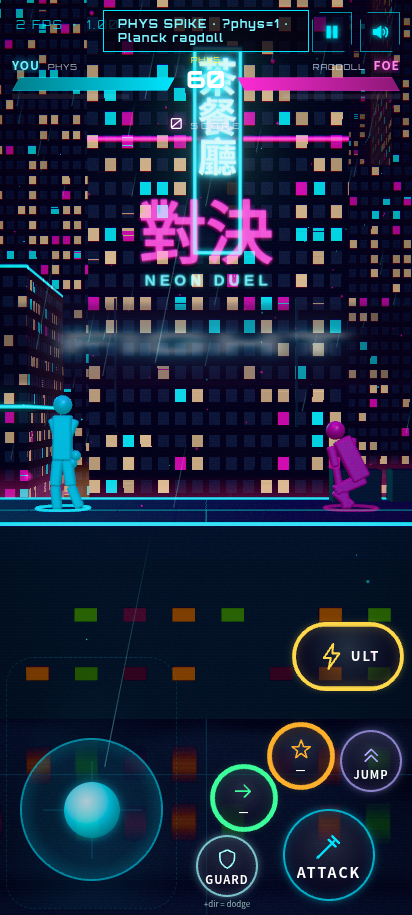
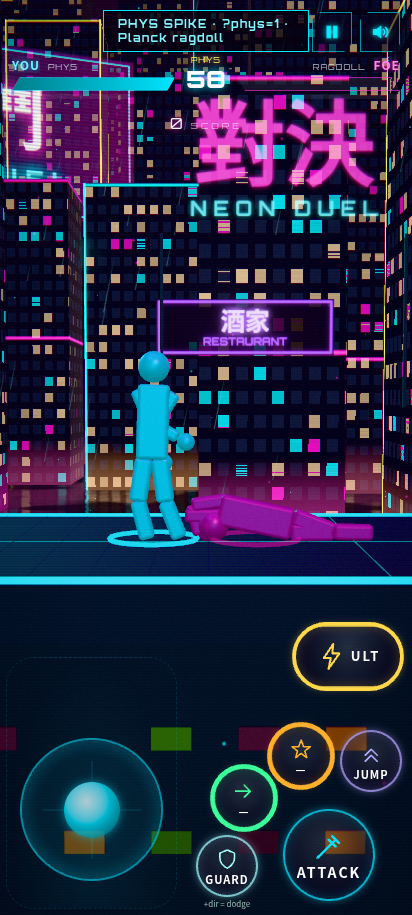
phys spike: softer wider joints for Stick Fight flail
Widen revolute limits, cut motor torque/gain and angular damping,
add hit-flinch limp window and KO angular flop. Limb mesh sizes
unchanged. Refresh punch/KO shots; document Pages ?phys=1 URL.

diff --git a/js/phys/ragdoll.js b/js/phys/ragdoll.js
@@ -1,10 +1,11 @@
 // P0 physics spike — Planck.js 2D neon ragdoll (side-view). Pure sim, no Three.js.
 // Units: metres, seconds. Ground at y = 0. Arena walls at ±ARENA.
+// Stick Fight–like rubbery joints: WIDE revolute limits + SOFT motors (limb silhouette / mesh sizes unchanged).
 import { World, Edge, Box, Circle, RevoluteJoint, Vec2 } from '../../vendor/planck/planck.mjs';
 
 export const ARENA = 7.5;
 export const DT = 1 / 60;
-export const GRAVITY = -22;
+export const GRAVITY = -20;
 
 const CAT = { GROUND: 0x0001, A: 0x0002, B: 0x0004, FIST_A: 0x0008, FIST_B: 0x0010 };
 const MASK = {
@@ -15,18 +16,48 @@ const MASK = {
   fistB: CAT.GROUND | CAT.A,
 };
 
+// Soft “alive” motor gains / torques (Stick Fight–rubbery). Guard multiplies these.
+const SOFT = {
+  gain: 4.5,          // was ~12–16 — low = laggy rubbery follow
+  hipT: 22, knT: 14,  // was 55–70 / 40–55
+  shT: 10, elT: 8,    // was 28–35
+  neckT: 5, wrT: 4,
+  upright: 14,        // torso stand torque (was 40)
+  uprightD: 2.5,      // angular damp on upright (was 6)
+  walkK: 12,
+  flinchT: 0.28,      // seconds motors go near-zero after a hit
+};
+
 function boxBody(world, x, y, hx, hy, dens, filter, opts = {}) {
-  const b = world.createBody({ type: 'dynamic', position: { x, y }, linearDamping: opts.ld ?? 0.4, angularDamping: opts.ad ?? 0.8, fixedRotation: !!opts.fixed });
-  b.createFixture({ shape: new Box(hx, hy), density: dens, friction: opts.fric ?? 0.55, restitution: opts.rest ?? 0.05, filterCategoryBits: filter.cat, filterMaskBits: filter.mask });
+  // Low angular damping → limbs keep swinging / flailing
+  const b = world.createBody({
+    type: 'dynamic', position: { x, y },
+    linearDamping: opts.ld ?? 0.25,
+    angularDamping: opts.ad ?? 0.22,
+    fixedRotation: !!opts.fixed,
+  });
+  b.createFixture({
+    shape: new Box(hx, hy), density: dens,
+    friction: opts.fric ?? 0.5, restitution: opts.rest ?? 0.12,
+    filterCategoryBits: filter.cat, filterMaskBits: filter.mask,
+  });
   return b;
 }
 function circleBody(world, x, y, r, dens, filter, opts = {}) {
-  const b = world.createBody({ type: 'dynamic', position: { x, y }, linearDamping: opts.ld ?? 0.35, angularDamping: opts.ad ?? 0.7 });
-  b.createFixture({ shape: new Circle(r), density: dens, friction: opts.fric ?? 0.4, restitution: opts.rest ?? 0.08, filterCategoryBits: filter.cat, filterMaskBits: filter.mask });
+  const b = world.createBody({
+    type: 'dynamic', position: { x, y },
+    linearDamping: opts.ld ?? 0.22,
+    angularDamping: opts.ad ?? 0.18,
+  });
+  b.createFixture({
+    shape: new Circle(r), density: dens,
+    friction: opts.fric ?? 0.4, restitution: opts.rest ?? 0.15,
+    filterCategoryBits: filter.cat, filterMaskBits: filter.mask,
+  });
   return b;
 }
 
-function joint(world, a, b, ax, ay, { lo, hi, motor = true, torque = 40, speed = 0 } = {}) {
+function joint(world, a, b, ax, ay, { lo, hi, motor = true, torque = 12, speed = 0 } = {}) {
   return world.createJoint(new RevoluteJoint({
     enableLimit: lo != null && hi != null,
     lowerAngle: lo ?? 0,
@@ -44,7 +75,7 @@ export function makeRagdoll(world, x0, face, team /* 'a'|'b' */) {
   const bodyCat = team === 'a' ? { cat: CAT.A, mask: MASK.bodyA } : { cat: CAT.B, mask: MASK.bodyB };
   const fistCat = team === 'a' ? { cat: CAT.FIST_A, mask: MASK.fistA } : { cat: CAT.FIST_B, mask: MASK.fistB };
 
-  // proportions (half-extents / radii)
+  // proportions (half-extents / radii) — DO NOT CHANGE (silhouette locked)
   const torsoH = 0.38, torsoW = 0.16;
   const headR = 0.16;
   const ua = { hx: 0.07, hy: 0.18 }, la = { hx: 0.06, hy: 0.16 };
@@ -52,37 +83,40 @@ export function makeRagdoll(world, x0, face, team /* 'a'|'b' */) {
   const fistR = 0.09;
 
   const pelvisY = 0.95;
-  const torso = boxBody(world, x0, pelvisY + torsoH, torsoW, torsoH, 3.2, bodyCat, { ad: 1.2 });
-  const head = circleBody(world, x0, pelvisY + torsoH * 2 + headR + 0.02, headR, 1.0, bodyCat, { ad: 0.9 });
+  const torso = boxBody(world, x0, pelvisY + torsoH, torsoW, torsoH, 2.8, bodyCat, { ad: 0.35 });
+  const head = circleBody(world, x0, pelvisY + torsoH * 2 + headR + 0.02, headR, 0.85, bodyCat, { ad: 0.2 });
 
   const shY = pelvisY + torsoH * 2 - 0.04;
   const hipY = pelvisY;
 
-  const uArmF = boxBody(world, x0 + f * 0.22, shY - ua.hy, ua.hx, ua.hy, 0.9, bodyCat);
-  const lArmF = boxBody(world, x0 + f * 0.22, shY - ua.hy * 2 - la.hy, la.hx, la.hy, 0.7, bodyCat);
-  const fistF = circleBody(world, x0 + f * 0.22, shY - ua.hy * 2 - la.hy * 2 - fistR, fistR, 0.55, fistCat, { rest: 0.15, fric: 0.7 });
+  const uArmF = boxBody(world, x0 + f * 0.22, shY - ua.hy, ua.hx, ua.hy, 0.7, bodyCat);
+  const lArmF = boxBody(world, x0 + f * 0.22, shY - ua.hy * 2 - la.hy, la.hx, la.hy, 0.55, bodyCat);
+  const fistF = circleBody(world, x0 + f * 0.22, shY - ua.hy * 2 - la.hy * 2 - fistR, fistR, 0.45, fistCat, { rest: 0.2, fric: 0.65 });
 
-  const uArmB = boxBody(world, x0 - f * 0.18, shY - ua.hy, ua.hx, ua.hy, 0.85, bodyCat);
-  const lArmB = boxBody(world, x0 - f * 0.18, shY - ua.hy * 2 - la.hy, la.hx, la.hy, 0.65, bodyCat);
-  const fistB = circleBody(world, x0 - f * 0.18, shY - ua.hy * 2 - la.hy * 2 - fistR, fistR, 0.5, fistCat, { rest: 0.12 });
+  const uArmB = boxBody(world, x0 - f * 0.18, shY - ua.hy, ua.hx, ua.hy, 0.65, bodyCat);
+  const lArmB = boxBody(world, x0 - f * 0.18, shY - ua.hy * 2 - la.hy, la.hx, la.hy, 0.5, bodyCat);
+  const fistB = circleBody(world, x0 - f * 0.18, shY - ua.hy * 2 - la.hy * 2 - fistR, fistR, 0.4, fistCat, { rest: 0.18 });
 
-  const thighF = boxBody(world, x0 + f * 0.08, hipY - th.hy, th.hx, th.hy, 1.6, bodyCat);
-  const shinF = boxBody(world, x0 + f * 0.08, hipY - th.hy * 2 - sh.hy, sh.hx, sh.hy, 1.1, bodyCat);
-  const thighB = boxBody(world, x0 - f * 0.08, hipY - th.hy, th.hx, th.hy, 1.6, bodyCat);
-  const shinB = boxBody(world, x0 - f * 0.08, hipY - th.hy * 2 - sh.hy, sh.hx, sh.hy, 1.1, bodyCat);
+  const thighF = boxBody(world, x0 + f * 0.08, hipY - th.hy, th.hx, th.hy, 1.3, bodyCat);
+  const shinF = boxBody(world, x0 + f * 0.08, hipY - th.hy * 2 - sh.hy, sh.hx, sh.hy, 0.9, bodyCat);
+  const thighB = boxBody(world, x0 - f * 0.08, hipY - th.hy, th.hx, th.hy, 1.3, bodyCat);
+  const shinB = boxBody(world, x0 - f * 0.08, hipY - th.hy * 2 - sh.hy, sh.hx, sh.hy, 0.9, bodyCat);
 
+  // WIDE angle limits — almost Stick Fight full flop (radians). Soft base torque only.
   const j = {
-    neck: joint(world, torso, head, x0, pelvisY + torsoH * 2, { lo: -0.55, hi: 0.55, torque: 18 }),
-    shF: joint(world, torso, uArmF, x0 + f * 0.14, shY, { lo: -2.2, hi: 1.4, torque: 28 }),
-    elF: joint(world, uArmF, lArmF, x0 + f * 0.22, shY - ua.hy * 2, { lo: -0.05, hi: 2.4, torque: 22 }),
-    wrF: joint(world, lArmF, fistF, x0 + f * 0.22, shY - ua.hy * 2 - la.hy * 2, { lo: -0.8, hi: 0.8, torque: 10 }),
-    shB: joint(world, torso, uArmB, x0 - f * 0.14, shY, { lo: -1.4, hi: 2.2, torque: 26 }),
-    elB: joint(world, uArmB, lArmB, x0 - f * 0.18, shY - ua.hy * 2, { lo: -0.05, hi: 2.4, torque: 20 }),
-    wrB: joint(world, lArmB, fistB, x0 - f * 0.18, shY - ua.hy * 2 - la.hy * 2, { lo: -0.8, hi: 0.8, torque: 10 }),
-    hipF: joint(world, torso, thighF, x0 + f * 0.06, hipY, { lo: -1.5, hi: 0.9, torque: 55 }),
-    knF: joint(world, thighF, shinF, x0 + f * 0.08, hipY - th.hy * 2, { lo: -0.05, hi: 2.3, torque: 40 }),
-    hipB: joint(world, torso, thighB, x0 - f * 0.06, hipY, { lo: -1.5, hi: 0.9, torque: 55 }),
-    knB: joint(world, thighB, shinB, x0 - f * 0.08, hipY - th.hy * 2, { lo: -0.05, hi: 2.3, torque: 40 }),
+    neck: joint(world, torso, head, x0, pelvisY + torsoH * 2, { lo: -1.4, hi: 1.4, torque: SOFT.neckT }),
+    // shoulders: nearly full windmill
+    shF: joint(world, torso, uArmF, x0 + f * 0.14, shY, { lo: -2.9, hi: 2.9, torque: SOFT.shT }),
+    elF: joint(world, uArmF, lArmF, x0 + f * 0.22, shY - ua.hy * 2, { lo: -0.15, hi: 2.85, torque: SOFT.elT }),
+    wrF: joint(world, lArmF, fistF, x0 + f * 0.22, shY - ua.hy * 2 - la.hy * 2, { lo: -1.6, hi: 1.6, torque: SOFT.wrT }),
+    shB: joint(world, torso, uArmB, x0 - f * 0.14, shY, { lo: -2.9, hi: 2.9, torque: SOFT.shT }),
+    elB: joint(world, uArmB, lArmB, x0 - f * 0.18, shY - ua.hy * 2, { lo: -0.15, hi: 2.85, torque: SOFT.elT }),
+    wrB: joint(world, lArmB, fistB, x0 - f * 0.18, shY - ua.hy * 2 - la.hy * 2, { lo: -1.6, hi: 1.6, torque: SOFT.wrT }),
+    // hips: deep splits / backbend
+    hipF: joint(world, torso, thighF, x0 + f * 0.06, hipY, { lo: -2.4, hi: 1.6, torque: SOFT.hipT }),
+    knF: joint(world, thighF, shinF, x0 + f * 0.08, hipY - th.hy * 2, { lo: -0.1, hi: 2.7, torque: SOFT.knT }),
+    hipB: joint(world, torso, thighB, x0 - f * 0.06, hipY, { lo: -2.4, hi: 1.6, torque: SOFT.hipT }),
+    knB: joint(world, thighB, shinB, x0 - f * 0.08, hipY - th.hy * 2, { lo: -0.1, hi: 2.7, torque: SOFT.knT }),
   };
 
   const parts = { torso, head, uArmF, lArmF, fistF, uArmB, lArmB, fistB, thighF, shinF, thighB, shinB };
@@ -92,8 +126,10 @@ export function makeRagdoll(world, x0, face, team /* 'a'|'b' */) {
 
   const doll = {
     team, face: f, parts, joints: j, alive: true, hp: 100, maxHp: 100,
-    punchCd: 0, jumpCd: 0, limpT: 0, color: team === 'a' ? 0x00e5ff : 0xff2bd6,
-    _stance: { hipF: 0.15, hipB: -0.1, knF: 0.25, knB: 0.2, shF: -0.4, shB: 0.3, elF: 0.6, elB: 0.5 },
+    punchCd: 0, jumpCd: 0, limpT: 0, flinchT: 0,
+    color: team === 'a' ? 0x00e5ff : 0xff2bd6,
+    // loose idle pose targets (motors are soft so they won’t lock)
+    _stance: { hipF: 0.2, hipB: -0.15, knF: 0.35, knB: 0.3, shF: -0.55, shB: 0.45, elF: 0.75, elB: 0.65 },
   };
   for (const body of Object.values(parts)) body.getUserData().ragdoll = doll;
   return doll;
@@ -103,13 +139,11 @@ export function makePhysWorld() {
   const world = new World({ gravity: { x: 0, y: GRAVITY } });
   const ground = world.createBody({ type: 'static' });
   ground.createFixture({ shape: new Edge({ x: -ARENA - 2, y: 0 }, { x: ARENA + 2, y: 0 }), friction: 0.85, filterCategoryBits: CAT.GROUND, filterMaskBits: MASK.ground });
-  // walls
   const wall = (x) => {
     const b = world.createBody({ type: 'static', position: { x, y: 3 } });
-    b.createFixture({ shape: new Box(0.25, 4), friction: 0.4, filterCategoryBits: CAT.GROUND, filterMaskBits: MASK.ground });
+    b.createFixture({ shape: new Box(0.25, 4), friction: 0.35, filterCategoryBits: CAT.GROUND, filterMaskBits: MASK.ground });
   };
   wall(-ARENA - 0.3); wall(ARENA + 0.3);
-  // soft ceiling so ragdolls don't fly forever
   const ceil = world.createBody({ type: 'static', position: { x: 0, y: 7.2 } });
   ceil.createFixture({ shape: new Box(ARENA + 1, 0.2), filterCategoryBits: CAT.GROUND, filterMaskBits: MASK.ground });
 
@@ -134,7 +168,7 @@ export function makePhysWorld() {
     const ba = fa.getBody(), bb = fb.getBody();
     const wv = Vec2.sub(ba.getLinearVelocity(), bb.getLinearVelocity());
     const speed = Math.hypot(wv.x, wv.y);
-    if (speed < 3.5) return;
+    if (speed < 3.2) return;
     const dmg = Math.min(22, 5 + Math.min(speed, 18) * 1.4);
     const tp = victim.parts.torso.getPosition();
     events.push({ type: 'hit', att: fist, def: victim, dmg, speed, part: victimUd.part, x: tp.x, y: tp.y });
@@ -144,64 +178,79 @@ export function makePhysWorld() {
   return { world, a, b, events, ground };
 }
 
-function setMotor(j, targetAngle, gain = 12, maxTorque) {
+function setMotor(j, targetAngle, gain, maxTorque) {
   if (!j) return;
   const ang = j.getJointAngle();
   j.setMotorSpeed((targetAngle - ang) * gain);
   if (maxTorque != null) j.setMaxMotorTorque(maxTorque);
 }
 
-/** Drive alive motors toward a stance; limp = motors off. */
+/** Drive alive motors toward a stance; limp = motors off. Soft = rubbery. */
 export function driveRagdoll(doll, intent, dt) {
   const { mx = 0, guard = false, jump = false, punch = false } = intent || {};
   if (doll.punchCd > 0) doll.punchCd -= dt;
   if (doll.jumpCd > 0) doll.jumpCd -= dt;
+  if (doll.flinchT > 0) doll.flinchT -= dt;
   if (doll.punchCd <= 0) doll._hitLatch = false;
 
   const J = doll.joints;
   if (!doll.alive) {
     for (const j of Object.values(J)) { j.enableMotor(false); j.setMaxMotorTorque(0); }
+    // extra limp: bleed angular damping so KO keeps flopping
+    if (doll.limpT < 0.05) {
+      for (const b of Object.values(doll.parts)) b.setAngularDamping(0.08);
+    }
     doll.limpT += dt;
     return;
   }
 
   for (const j of Object.values(J)) { j.enableMotor(true); }
 
-  const stiff = guard ? 1.6 : 1;
+  // Flinch window: motors almost off → limbs flail from hit impulse
+  const flinch = doll.flinchT > 0;
+  const stiff = guard && !flinch ? 2.2 : 1;
+  const softMul = flinch ? 0.08 : 1;
+  const g = SOFT.gain * (guard && !flinch ? 1.4 : 1) * softMul;
   const st = doll._stance;
-  setMotor(J.hipF, st.hipF + mx * 0.15, 14 * stiff, 70 * stiff);
-  setMotor(J.hipB, st.hipB - mx * 0.12, 14 * stiff, 70 * stiff);
-  setMotor(J.knF, st.knF, 16 * stiff, 55 * stiff);
-  setMotor(J.knB, st.knB, 16 * stiff, 55 * stiff);
-  setMotor(J.shF, guard ? -1.1 : st.shF, 10 * stiff, 35 * stiff);
-  setMotor(J.shB, guard ? -0.9 : st.shB, 10 * stiff, 32 * stiff);
-  setMotor(J.elF, guard ? 1.4 : st.elF, 12 * stiff, 28 * stiff);
-  setMotor(J.elB, guard ? 1.2 : st.elB, 12 * stiff, 26 * stiff);
-  setMotor(J.neck, 0, 8, 14);
 
-  // walk: push torso horizontally
+  setMotor(J.hipF, st.hipF + mx * 0.25, g, SOFT.hipT * stiff * softMul);
+  setMotor(J.hipB, st.hipB - mx * 0.2, g, SOFT.hipT * stiff * softMul);
+  setMotor(J.knF, st.knF, g * 1.1, SOFT.knT * stiff * softMul);
+  setMotor(J.knB, st.knB, g * 1.1, SOFT.knT * stiff * softMul);
+  setMotor(J.shF, guard && !flinch ? -1.2 : st.shF + Math.sin(performance.now() * 0.004 + doll.face) * 0.08, g * 0.9, SOFT.shT * stiff * softMul);
+  setMotor(J.shB, guard && !flinch ? -1.0 : st.shB - Math.sin(performance.now() * 0.0035) * 0.08, g * 0.9, SOFT.shT * stiff * softMul);
+  setMotor(J.elF, guard && !flinch ? 1.5 : st.elF, g, SOFT.elT * stiff * softMul);
+  setMotor(J.elB, guard && !flinch ? 1.3 : st.elB, g, SOFT.elT * stiff * softMul);
+  setMotor(J.neck, Math.sin(performance.now() * 0.002) * 0.15, g * 0.7, SOFT.neckT * softMul);
+  setMotor(J.wrF, 0, g * 0.5, SOFT.wrT * softMul);
+  setMotor(J.wrB, 0, g * 0.5, SOFT.wrT * softMul);
+
   const torso = doll.parts.torso;
   const v = torso.getLinearVelocity();
-  const walk = mx * (guard ? 1.6 : 3.4);
-  torso.applyForceToCenter({ x: (walk - v.x) * 18, y: 0 }, true);
-  // upright torque on torso
-  const ang = torso.getAngle();
-  torso.applyTorque(-ang * 40 - torso.getAngularVelocity() * 6);
+  const walk = mx * (guard ? 1.4 : 3.2);
+  torso.applyForceToCenter({ x: (walk - v.x) * SOFT.walkK, y: 0 }, true);
+  // soft upright — allow lean / wobble
+  if (!flinch) {
+    const ang = torso.getAngle();
+    torso.applyTorque(-ang * SOFT.upright * stiff - torso.getAngularVelocity() * SOFT.uprightD);
+  }
 
-  // face foe direction for punches
   if (Math.abs(mx) > 0.2) doll.face = mx > 0 ? 1 : -1;
 
   if (jump && doll.jumpCd <= 0) {
     const p = torso.getPosition();
-    if (p.y < 1.6) {
-      torso.applyLinearImpulse({ x: mx * 0.8, y: 5.2 }, torso.getWorldCenter(), true);
+    if (p.y < 1.7) {
+      torso.applyLinearImpulse({ x: mx * 0.7, y: 4.8 }, torso.getWorldCenter(), true);
+      // tuck knees a bit
+      setMotor(J.knF, 1.8, 20, 40);
+      setMotor(J.knB, 1.8, 20, 40);
       doll.jumpCd = 0.55;
     }
   }
 
   if (punch && doll.punchCd <= 0) {
     firePunch(doll);
-    doll.punchCd = 0.38;
+    doll.punchCd = 0.36;
   }
 }
 
@@ -209,27 +258,41 @@ function firePunch(doll) {
   const fist = doll.parts.fistF;
   const torso = doll.parts.torso;
   const dir = doll.face;
-  // wind-up shoulder then impulse through fist
-  setMotor(doll.joints.shF, -1.6 * dir, 40, 90);
-  setMotor(doll.joints.elF, 0.2, 40, 80);
-  const impulse = { x: dir * 2.4, y: 0.35 };
-  fist.applyLinearImpulse(impulse, fist.getWorldCenter(), true);
-  torso.applyLinearImpulse({ x: dir * 0.45, y: 0.1 }, torso.getWorldCenter(), true);
-  // slight step-in
-  torso.applyForceToCenter({ x: dir * 80, y: 0 }, true);
+  // loose wind-up — soft motors let the arm whip
+  setMotor(doll.joints.shF, -2.2 * dir, 18, 55);
+  setMotor(doll.joints.elF, 0.15, 16, 40);
+  fist.applyLinearImpulse({ x: dir * 2.6, y: 0.45 }, fist.getWorldCenter(), true);
+  doll.parts.uArmF.applyAngularImpulse(dir * -0.35);
+  doll.parts.lArmF.applyAngularImpulse(dir * -0.2);
+  torso.applyLinearImpulse({ x: dir * 0.4, y: 0.12 }, torso.getWorldCenter(), true);
+  torso.applyForceToCenter({ x: dir * 70, y: 0 }, true);
 }
 
 export function applyHit(doll, dmg) {
   if (!doll.alive) return false;
   doll.hp = Math.max(0, doll.hp - dmg);
-  // flinch knock
+  doll.flinchT = SOFT.flinchT;
+
   const torso = doll.parts.torso;
-  torso.applyLinearImpulse({ x: (Math.random() - 0.5) * 1.2, y: 1.5 + dmg * 0.04 }, torso.getWorldCenter(), true);
+  const kick = 1.2 + dmg * 0.06;
+  torso.applyLinearImpulse({ x: (Math.random() - 0.5) * 1.6, y: kick }, torso.getWorldCenter(), true);
+  // spin limbs for rubbery flail (silhouette unchanged — only angular impulse)
+  const spin = (b, s) => b.applyAngularImpulse((Math.random() - 0.5) * s);
+  spin(doll.parts.head, 0.25);
+  spin(doll.parts.uArmF, 0.55); spin(doll.parts.lArmF, 0.4); spin(doll.parts.fistF, 0.2);
+  spin(doll.parts.uArmB, 0.5); spin(doll.parts.lArmB, 0.35);
+  spin(doll.parts.thighF, 0.35); spin(doll.parts.shinF, 0.3);
+  spin(doll.parts.thighB, 0.35); spin(doll.parts.shinB, 0.3);
+  spin(torso, 0.2);
+
   if (doll.hp <= 0) {
     doll.alive = false;
     doll.hp = 0;
     for (const j of Object.values(doll.joints)) { j.enableMotor(false); j.setMaxMotorTorque(0); }
-    return true; // KO
+    for (const b of Object.values(doll.parts)) b.setAngularDamping(0.08);
+    // KO launch flop
+    torso.applyLinearImpulse({ x: (Math.random() - 0.5) * 2.5, y: 2.2 }, torso.getWorldCenter(), true);
+    return true;
   }
   return false;
 }
@@ -237,7 +300,6 @@ export function applyHit(doll, dmg) {
 export function stepWorld(ctx, dt = DT) {
   ctx.events.length = 0;
   ctx.world.step(dt, 8, 3);
-  // flush contact events collected during step
   return ctx.events.splice(0);
 }
 

diff --git a/docs/PHYS-SPIKE.md b/docs/PHYS-SPIKE.md
@@ -16,6 +16,13 @@ python3 -m http.server 8811
 
 Controls (same pad): stick move · **ATTACK** = punch impulse · **JUMP** · **GUARD** stiffens motors.
 
+## Feel (v0.2 soft joints)
+
+Wide revolute limits + soft motors + low angular damping → limbs bend/flail like Stick Fight.
+**Limb mesh sizes unchanged** (silhouette locked). Hit = brief motor near-zero + angular flail; KO = motors off.
+
+Live Pages (after merge to `main`): https://fung2222.github.io/neon-stick-duel/?phys=1
+
 ## What this spike proves
 
 - Planck.js 2D world on the existing neon rooftop (cyber-kit stage + bloom)
